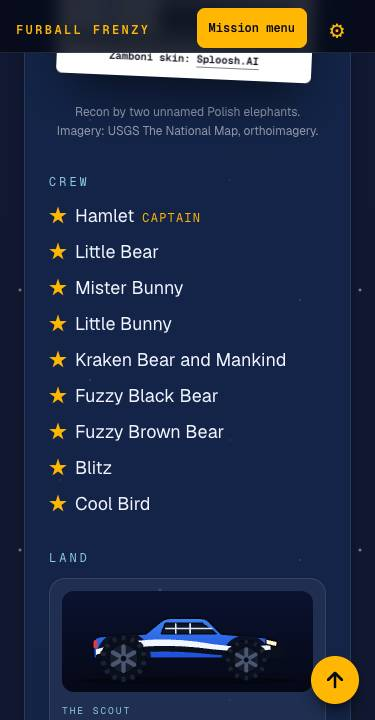
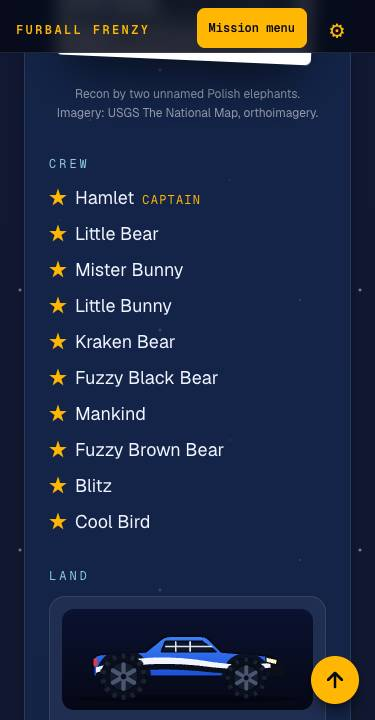
fix: list Mankind under Kraken Bear, like Hamley under Piggy

Changed region(s): [[0.1173, 0.0611, 0.8507, 0.7333], [0.1467, 0.7639, 0.8507, 1.0]]

diff --git a/apps/web/src/components/fleet/HomeBases.tsx b/apps/web/src/components/fleet/HomeBases.tsx
@@ -133,9 +133,10 @@ const seattleCrew: Member[] = [
   { name: "Little Bear" },
   { name: "Mister Bunny" },
   { name: "Little Bunny" },
-  // Kraken Bear and his little buddy share a line.
-  { name: "Kraken Bear and Mankind" },
+  // Two columns on a wide screen: Mankind sits under Kraken Bear, as Hamley sits under Piggy.
+  { name: "Kraken Bear" },
   { name: "Fuzzy Black Bear" },
+  { name: "Mankind" },
   { name: "Fuzzy Brown Bear" },
   { name: "Blitz" },
   { name: "Cool Bird" },
@@ -147,8 +148,7 @@ function Roster({ members, anchorId }: { members: Member[]; anchorId?: string })
       <h4 id={anchorId} className="mt-8 scroll-mt-24 font-mono text-xs uppercase tracking-[0.25em] text-ice">Crew</h4>
       <ul className="mt-3 grid gap-x-3 gap-y-2 text-base min-[375px]:text-lg sm:grid-cols-2">
         {members.map((m) => (
-          // A pair of buddies gets the whole row, so their names stay on one line.
-          <li key={m.name} className={`flex items-baseline gap-2 ${m.name.includes(" and ") ? "sm:col-span-2" : ""}`}>
+          <li key={m.name} className="flex items-baseline gap-2">
             <span className="text-amber" aria-hidden="true">
               &#9733;
             </span>

diff --git a/apps/api/tests/test_api.py b/apps/api/tests/test_api.py
@@ -71,6 +71,5 @@ def test_parade_day_furballs_are_in_the_crew() -> None:
 def test_meet_the_crew_on_the_site_lists_everyone_the_headcount_counts() -> None:
     page = Path(__file__).parents[2] / "web/src/components/fleet/HomeBases.tsx"
     rosters = re.findall(r"const (?:carolina|seattle)Crew: Member\[\] = \[(.*?)\n\];", page.read_text(), re.DOTALL)
-    # A line can hold a pair of buddies, such as "Kraken Bear and Mankind".
-    listed = [n for r in rosters for line in re.findall(r'name: "([^"]+)"', r) for n in line.split(" and ")]
+    listed = [n for r in rosters for n in re.findall(r'name: "([^"]+)"', r)]
     assert sorted(listed) == sorted(c["name"] for c in client.get("/crew").json())
